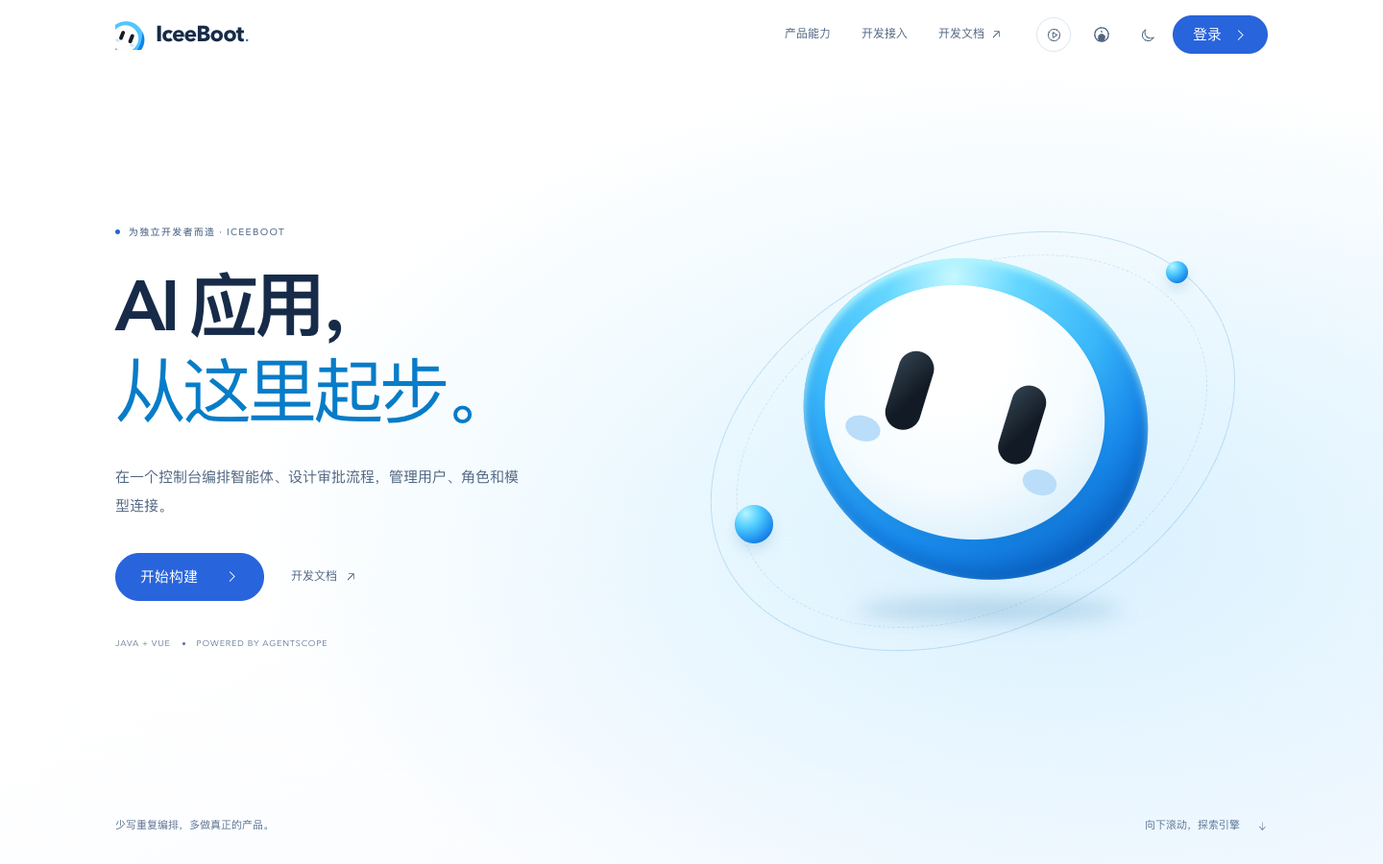
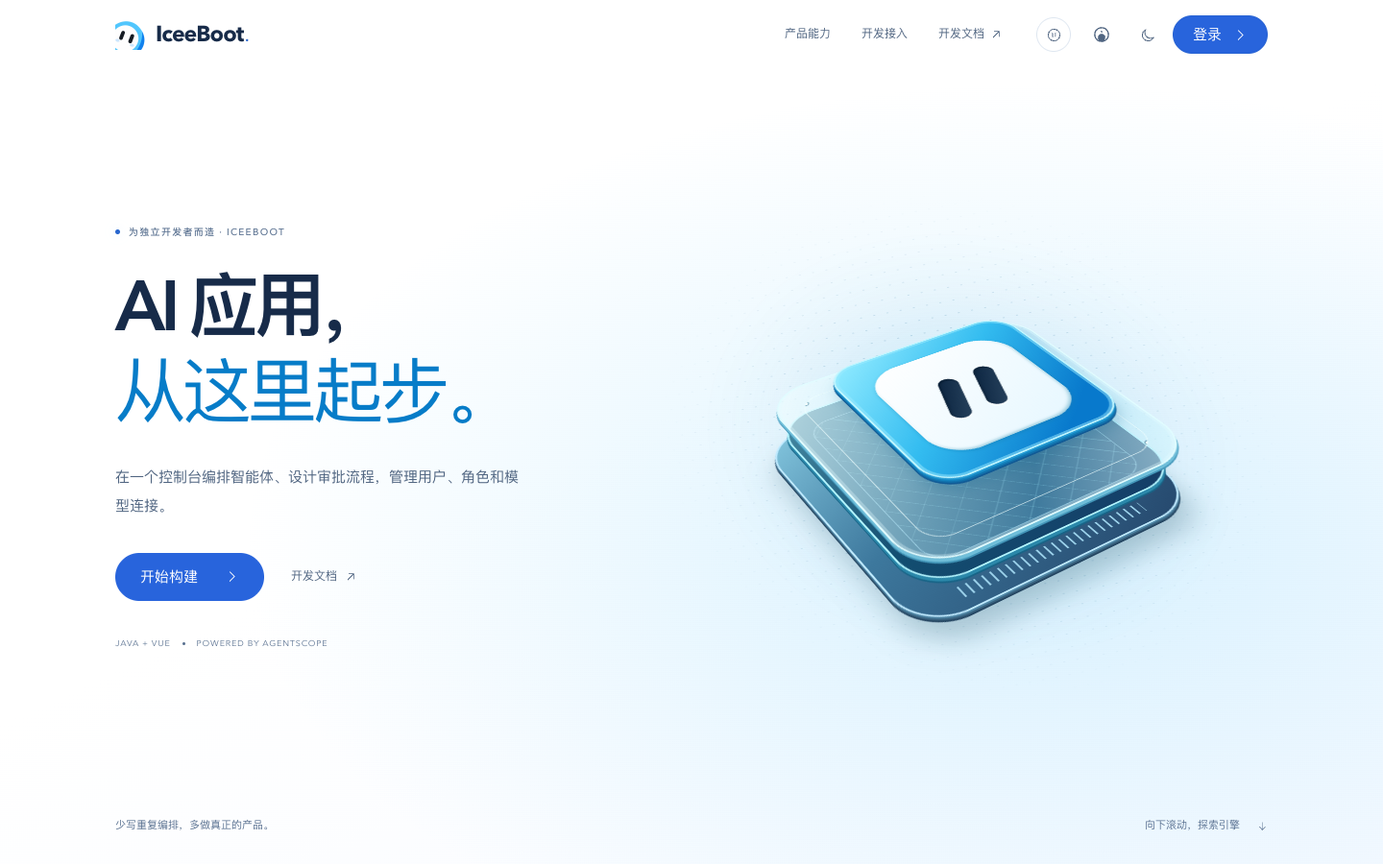
为 IceeBoot 首页主视觉增加组装动画与可逆章节过渡

Changed region(s): [[0.5312, 0.28, 0.875, 0.7467], [0.8438, 0.28, 0.875, 0.3422]]

diff --git a/src/pages/home/HomePage.vue b/src/pages/home/HomePage.vue
@@ -1,5 +1,5 @@
 <template>
-  <div ref="pageRoot" class="launch-site" :class="{ 'is-dark': isDark, 'can-reveal': canReveal && !prefersReducedMotion, 'reduce-motion': prefersReducedMotion }">
+  <div ref="pageRoot" class="launch-site" :class="{ 'is-dark': isDark, 'scroll-motion': !motionStopped, 'reduce-motion': prefersReducedMotion }">
     <a class="skip-link" href="#capabilities">{{ t('home.skipContent') }}</a>
     <header class="launch-header">
       <div class="launch-width header-inner">
@@ -21,17 +21,17 @@
               <div class="hero-spec"><span>JAVA + VUE</span><i></i><span>POWERED BY AGENTSCOPE</span></div>
             </div>
             <div class="hero-art">
-              <BrandMascot :paused="motionStopped || showLoginDialog" />
+              <HeroAssembly />
             </div>
           </div>
           <div class="hero-bottom launch-width"><span>{{ t('home.visualCaption') }}</span><a href="#capabilities">{{ t('home.scrollExplore') }}<el-icon aria-hidden="true"><Bottom /></el-icon></a></div>
         </div>
       </section>
 
-      <section id="capabilities" class="manifesto launch-width">
-        <p class="eyebrow" data-reveal>LESS PLUMBING. MORE BUILDING.</p>
-        <h2 data-reveal>{{ t('home.platformTitle') }}<span>{{ t('home.platformHighlight') }}</span></h2>
-        <p data-reveal>{{ t('home.platformDescription') }}</p>
+      <section id="capabilities" class="manifesto launch-width" data-scene="capabilities">
+        <p class="eyebrow" data-story-copy>LESS PLUMBING. MORE BUILDING.</p>
+        <h2 data-story-copy>{{ t('home.platformTitle') }}<span>{{ t('home.platformHighlight') }}</span></h2>
+        <p data-story-copy>{{ t('home.platformDescription') }}</p>
         <nav class="chapter-navigation" :aria-label="t('home.navCapabilities')"><a v-for="(feature, index) in features" :key="feature.kind" :href="`#${feature.kind}`"><span>0{{ index + 1 }}</span>{{ t(`home.section_${feature.kind}`) }}<el-icon aria-hidden="true"><Bottom /></el-icon></a></nav>
       </section>
 
@@ -42,7 +42,7 @@
             <div class="feature-art">
               <div class="scene-halo" aria-hidden="true"></div>
               <span class="scene-watermark" aria-hidden="true">{{ feature.mark }}</span>
-              <AgentCoreScene :kind="feature.kind" :label="t(`home.scene_${feature.kind}`)" :progress="sceneProgress[feature.kind] || 0" :reduced-motion="motionStopped" :dark="isDark" :selection="feature.kind === 'models' ? providers.findIndex(provider => provider.name === selectedProvider.name) : capabilityMask" />
+              <AgentCoreScene :kind="feature.kind" :label="t(`home.scene_${feature.kind}`)" :progress="motionStopped ? .45 : sceneProgress[feature.kind] || 0" :reduced-motion="motionStopped" :dark="isDark" :selection="feature.kind === 'models' ? providers.findIndex(provider => provider.name === selectedProvider.name) : capabilityMask" />
               <div class="scene-caption"><span class="status-dot"></span><span>{{ t(`home.scene_caption_${feature.kind}`) }}</span><span class="scene-coordinate" aria-hidden="true">[ {{ String(Math.round((sceneProgress[feature.kind] || 0) * 100)).padStart(3, '0') }} ]</span></div>
             </div>
             <div class="feature-copy">
@@ -73,19 +73,19 @@
 
       <section id="integration" class="integration-section" data-scene="integration">
         <div class="launch-width">
-          <div class="integration-intro" data-reveal><p class="eyebrow">04 → YOUR APPLICATION</p><h2>{{ t('home.integrationTitle') }}<span>{{ t('home.integrationHighlight') }}</span></h2><p>{{ t('home.integrationDescription') }}</p></div>
+          <div class="integration-intro" data-story-copy><p class="eyebrow">04 → YOUR APPLICATION</p><h2>{{ t('home.integrationTitle') }}<span>{{ t('home.integrationHighlight') }}</span></h2><p>{{ t('home.integrationDescription') }}</p></div>
           <div class="integration-layout">
-            <div class="governance-list"><article v-for="(item, index) in governance" :key="item.key" data-reveal><span class="governance-number">0{{ index + 1 }}</span><div><h3><el-icon aria-hidden="true"><component :is="item.icon" /></el-icon>{{ t(`home.governance_${item.key}`) }}</h3><p>{{ t(`home.governance_${item.key}_description`) }}</p></div></article><a :href="docsUrl" target="_blank" rel="noopener noreferrer" class="text-link">{{ t('home.integrationDocs') }}<el-icon aria-hidden="true"><TopRight /></el-icon></a></div>
+            <div class="governance-list"><article v-for="(item, index) in governance" :key="item.key" data-story-copy><span class="governance-number">0{{ index + 1 }}</span><div><h3><el-icon aria-hidden="true"><component :is="item.icon" /></el-icon>{{ t(`home.governance_${item.key}`) }}</h3><p>{{ t(`home.governance_${item.key}_description`) }}</p></div></article><a :href="docsUrl" target="_blank" rel="noopener noreferrer" class="text-link">{{ t('home.integrationDocs') }}<el-icon aria-hidden="true"><TopRight /></el-icon></a></div>
             <div class="code-perspective" :style="{ '--code-tilt': `${motionStopped ? 0 : (1 - (sceneProgress.integration || 0)) * 9}deg` }"><div class="code-depth" aria-hidden="true"></div><div class="code-window"><div class="code-toolbar"><div class="window-dots" aria-hidden="true"><i></i><i></i><i></i></div><div class="code-switch"><button v-for="mode in exampleModes" :key="mode" :aria-pressed="exampleMode === mode" :class="{ active: exampleMode === mode }" @click="exampleMode = mode">{{ mode === 'typescript' ? 'TypeScript' : 'HTTP' }}</button></div><button class="copy-button" :aria-label="t('home.copyCode')" @click="copyCode"><el-icon aria-hidden="true"><CopyDocument /></el-icon>{{ t('home.copy') }}</button></div><div class="code-content" tabindex="0" :aria-label="t('home.codeExample')"><pre><code><span v-for="(line, index) in exampleCode.split('\n')" :key="index" class="code-line"><span class="line-number" aria-hidden="true">{{ String(index + 1).padStart(2, '0') }}</span><span :class="{ 'code-comment': line.startsWith('//') }">{{ line || ' ' }}</span></span></code></pre></div><div class="code-footnote"><el-icon aria-hidden="true"><Lock /></el-icon>{{ t('home.previewPermission') }}<span>{{ t('home.codeExample') }}</span></div></div></div>
           </div>
         </div>
       </section>
-      <section id="getting-started" class="getting-started launch-width">
-        <div class="section-intro" data-reveal><p class="eyebrow">YOUR FIRST BUILD</p><h2>{{ t('home.startTitle') }}</h2><p>{{ t('home.startDescription') }}</p></div>
-        <ol class="steps"><li v-for="step in steps" :key="step" data-reveal><span class="step-number">0{{ step }}</span><h3>{{ t(`home.step${step}`) }}</h3><p>{{ t(`home.step${step}Desc`) }}</p></li></ol>
+      <section id="getting-started" class="getting-started launch-width" data-scene="steps">
+        <div class="section-intro" data-story-copy><p class="eyebrow">YOUR FIRST BUILD</p><h2>{{ t('home.startTitle') }}</h2><p>{{ t('home.startDescription') }}</p></div>
+        <ol class="steps"><li v-for="step in steps" :key="step" data-story-copy><span class="step-number">0{{ step }}</span><h3>{{ t(`home.step${step}`) }}</h3><p>{{ t(`home.step${step}Desc`) }}</p></li></ol>
         <div class="stack-strip" :aria-label="t('home.techTitle')"><span>{{ t('home.techTitle') }}</span><strong v-for="tech in techStack" :key="tech">{{ tech }}</strong></div>
       </section>
-      <section class="finale-section" data-scene="finale"><div class="finale-art"><AgentCoreScene kind="hero" :label="t('home.scene_hero')" :progress="sceneProgress.finale || 0" :reduced-motion="motionStopped" :dark="isDark" /></div><div class="launch-width finale-content"><p class="eyebrow">MAKE IT YOURS.</p><h2>{{ t('home.calloutTitle') }}<span>{{ t('home.calloutHighlight') }}</span></h2><p>{{ t('home.calloutDescription') }}</p><button class="launch-button primary" @click="handleExperience">{{ t(isLoggedIn ? 'home.console' : 'home.experience') }}<el-icon aria-hidden="true"><ArrowRight /></el-icon></button></div></section>
+      <section class="finale-section" data-scene="finale"><div class="finale-art"><AgentCoreScene kind="hero" :label="t('home.scene_hero')" :progress="motionStopped ? .45 : sceneProgress.finale || 0" :reduced-motion="motionStopped" :dark="isDark" /></div><div class="launch-width finale-content"><p class="eyebrow">MAKE IT YOURS.</p><h2>{{ t('home.calloutTitle') }}<span>{{ t('home.calloutHighlight') }}</span></h2><p>{{ t('home.calloutDescription') }}</p><button class="launch-button primary" @click="handleExperience">{{ t(isLoggedIn ? 'home.console' : 'home.experience') }}<el-icon aria-hidden="true"><ArrowRight /></el-icon></button></div></section>
     </main>
 
     <footer class="launch-footer"><div class="launch-width"><div class="footer-main"><a class="brand" href="#"><img class="brand-symbol" src="@/assets/logo.png" alt="" width="32" height="32">IceeBoot.</a><p>{{ t('home.footerDescription') }}</p><div class="footer-links"><a :href="sourceUrl" target="_blank" rel="noopener noreferrer">Gitee<el-icon aria-hidden="true"><TopRight /></el-icon></a><a :href="docsUrl" target="_blank" rel="noopener noreferrer">{{ t('home.docs') }}</a><button @click="showContactDialog = true">{{ t('home.contactUs') }}</button><button v-if="isLoggedIn" @click="handleLogout">{{ t('home.logoutBtn') }}</button></div></div><div class="footer-bottom"><span>© {{ currentYear }} IceeBoot</span><a href="https://beian.miit.gov.cn/" target="_blank" rel="noopener noreferrer">京ICP备2024086986号-2</a></div></div></footer>
@@ -102,7 +102,7 @@ import { ElMessage, ElMessageBox } from 'element-plus'
 import { useI18n } from 'vue-i18n'
 import { Moon, Sunny, ArrowRight, TopRight, Cpu, Check, Connection, Lock, CopyDocument, Upload, Message, Key, ChatDotRound, Box, Tickets, Finished, Plus, Bottom, VideoPlay, VideoPause } from '@element-plus/icons-vue'
 import { isDark, toggleTheme } from '@/utils/theme'
-import BrandMascot from '@/components/common/BrandMascot.vue'
+import HeroAssembly from './components/HeroAssembly.vue'
 import LoginDialog from '@/components/common/LoginDialog.vue'
 import LanguageSwitcher from '@/components/common/LanguageSwitcher.vue'
 import { useUserStore } from '@/stores/user'
@@ -117,7 +117,7 @@ const route = useRoute()
 const userStore = useUserStore()
 const { t } = useI18n()
 const pageRoot = ref<HTMLElement>()
-const { sceneProgress, prefersReducedMotion, canReveal } = useScrollStory(pageRoot)
+const { sceneProgress, prefersReducedMotion } = useScrollStory(pageRoot)
 const ambientPaused = ref(false)
 const motionStopped = computed(() => prefersReducedMotion.value || ambientPaused.value)
 const isLoggedIn = computed(() => !!userStore.getToken())
@@ -347,7 +347,7 @@ onBeforeUnmount(() => { if (mockTimer) clearTimeout(mockTimer) })
 .text-link { display: inline-flex; align-items: center; gap: 8px; min-height: 44px; font-size: 12px; color: var(--secondary) !important; &:hover { color: var(--text) !important; } }
 .hero-spec { display: flex; align-items: center; gap: 12px; margin-top: 37px; color: var(--subtle); font-size: 9px; letter-spacing: .09em; i { width: 3px; height: 3px; background: var(--subtle); border-radius: 50%; } }
 .hero-art { display: grid; place-items: center; position: relative; height: min(650px, 75svh); margin: 0; }
-.hero-art .brand-scene { width: min(100%, 64svh); }
+
 .hero-bottom { display: flex; align-items: center; justify-content: space-between; height: 60px; color: var(--subtle); font-size: 11px; a { display: inline-flex; gap: 18px; align-items: center; min-height: 44px; } }
 .manifesto { padding-block: 120px 100px; text-align: center; .eyebrow { justify-content: center; } h2 { font-size: clamp(36px, 4.2vw, 60px); letter-spacing: -.055em; line-height: 1.4; font-weight: 500; margin-top: 25px; span { display: block; color: var(--highlight); } } > p:not(.eyebrow) { color: var(--secondary); max-width: 540px; font-size: 15px; line-height: 2; margin: 26px auto 0; } }
 .chapter-navigation { display: flex; justify-content: center; gap: 38px; margin-top: 55px; a { display: flex; align-items: center; gap: 12px; min-height: 48px; font-size: 12px; color: var(--text); span { font-size: 9px; color: var(--subtle); } .el-icon { color: var(--accent-ink); font-size: 11px; } &:hover { color: var(--accent-ink); } } }
@@ -414,12 +414,59 @@ onBeforeUnmount(() => { if (mockTimer) clearTimeout(mockTimer) })
 .finale-content { position: relative; text-align: center; .eyebrow { justify-content: center; } h2 { font-size: clamp(36px, 4.5vw, 62px); font-weight: 500; line-height: 1.4; letter-spacing: -.055em; margin-top: 20px; span { display: block; color: var(--highlight); } } > p:not(.eyebrow) { color: var(--secondary); font-size: 14px; line-height: 1.9; margin-top: 25px; }.launch-button { margin-top: 30px; } }
 .launch-footer { background: var(--site-bg); padding-block: 32px 20px; }.footer-main { display: flex; align-items: center; gap: 24px; > p { font-size: 11px; color: var(--subtle); } }.footer-links { margin-left: auto; display: flex; gap: 22px; a,button { display: inline-flex; align-items: center; gap: 5px; min-height: 44px; border: 0; background: none; color: var(--secondary); font-size: 11px; } }.footer-bottom { display: flex; justify-content: space-between; gap: 16px; margin-top: 24px; padding-top: 20px; color: var(--subtle); font-size: 10px; }
 .contact-grid { display: grid; grid-template-columns: repeat(3,minmax(0,1fr)); gap: 22px 16px; figure { margin: 0; text-align: center; } img { width: 100%; max-width: 144px; height: auto; aspect-ratio: 1; object-fit: contain; } figcaption { margin-top: 8px; font-size: 12px; } }
-.can-reveal [data-reveal] { opacity: 0; transform: translateY(20px); transition: opacity .8s ease, transform .8s cubic-bezier(.2,.7,.3,1); &.is-visible { opacity: 1; transform: none; } }
+/* The blue line passes the motion from the outgoing scene to the next heading. */
+[data-scene] { position: relative; }
+[data-scene]:not(.hero-section)::before {
+  content: '';
+  position: absolute;
+  z-index: 1;
+  top: 0;
+  left: 18%;
+  width: 64%;
+  height: 1px;
+  pointer-events: none;
+  background: linear-gradient(90deg, transparent, var(--hairline) 25%, var(--accent-ink) 52%, var(--hairline) 75%, transparent);
+}
+.scroll-motion [data-scene]:not(.hero-section)::after {
+  content: '';
+  position: absolute;
+  z-index: 2;
+  top: -2px;
+  left: calc(18% + 64% * var(--arrival, 1));
+  width: 18px;
+  height: 4px;
+  border-radius: 50%;
+  pointer-events: none;
+  background: linear-gradient(90deg, transparent, #46bfff);
+  box-shadow: 2px 0 9px #50c8ff88;
+  opacity: min(calc(4 * var(--arrival, 1)), calc(4 * (1 - var(--arrival, 1))));
+}
+.launch-site:not(.scroll-motion) [data-scene] {
+  --departure: 0 !important;
+  --arrival: 1 !important;
+}
+.scroll-motion {
+  [data-scene]::before {
+    transform-origin: left;
+    transform: scaleX(var(--arrival, 1));
+    opacity: calc(.25 + .65 * var(--arrival, 1));
+  }
+  .hero-copy { transform: translateY(calc(-32px * var(--departure, 0))); }
+  .hero-art { transform: translateY(calc(42px * var(--departure, 0))); }
+  .feature-art {
+    transform: translateY(calc((1 - var(--arrival, 1)) * 56px - var(--departure, 0) * 32px))
+      scale(calc(.94 + var(--arrival, 1) * .06));
+  }
+  .feature-copy, [data-story-copy], .finale-content {
+    transform: translateY(calc((1 - var(--arrival, 1)) * 38px - var(--departure, 0) * 20px));
+    opacity: calc(.64 + var(--arrival, 1) * .36 - var(--departure, 0) * .20);
+  }
+}
 @media (min-width: 1700px) { .launch-width { width: min(1280px, 80%); } .hero-copy h1 { font-size: 90px; }.feature-copy h2 { font-size: 54px; }.hero-description, .feature-description { font-size: 16px; max-width: 500px; }.hero-art { height: 750px; }.feature-art { height: 650px; } }
 @media (max-width: 1100px) { .header-inner { gap: 20px; }.header-inner nav { gap: 18px; }.hero-copy h1 { font-size: 56px; }.feature-grid { gap: 35px; }.feature-copy h2 { font-size: 36px; }.integration-layout { gap: 45px; } }
 @media (max-width: 760px) {
   .launch-width { width: calc(100% - 48px); }.header-inner { width: calc(100% - 32px); min-height: 64px; gap: 8px; }.header-inner nav { display: none; }.header-actions { margin-left: auto; gap: 0; }.brand { font-size: 20px; gap: 4px; }.brand-dot { margin-left: -3px; }.nav-cta { min-height: 36px; padding-inline: 13px; }.motion-button { margin: 0; width: 32px; height: 32px; }.utility-button { width: 36px; }.header-actions :deep(.lang-btn) { width: 36px; }
-  .hero-section { min-height: 0; height: auto; }.hero-sticky { position: relative; top: 0; height: auto; min-height: 0; }.hero-grid { display: flex; flex-direction: column; align-items: stretch; }.hero-copy { padding-top: 55px; }.hero-copy h1 { font-size: clamp(42px, 8vw, 62px); margin-top: 20px; }.hero-description { max-width: 520px; font-size: 13px; line-height: 1.9; margin-top: 20px !important; }.hero-actions { margin-top: 25px; gap: 25px; }.hero-spec { margin-top: 27px; font-size: 8px; }.hero-art { height: 390px; margin: -5px 0 -10px; }.hero-art .brand-scene { width: min(100%, 370px); }.hero-bottom { font-size: 9px; height: 64px; gap: 14px; > span { max-width: 145px; line-height: 1.8; } a { gap: 6px; } }
+  .hero-section { min-height: 0; height: auto; }.hero-sticky { position: relative; top: 0; height: auto; min-height: 0; }.hero-grid { display: flex; flex-direction: column; align-items: stretch; }.hero-copy { padding-top: 55px; }.hero-copy h1 { font-size: clamp(42px, 8vw, 62px); margin-top: 20px; }.hero-description { max-width: 520px; font-size: 13px; line-height: 1.9; margin-top: 20px !important; }.hero-actions { margin-top: 25px; gap: 25px; }.hero-spec { margin-top: 27px; font-size: 8px; }.hero-art { height: 390px; margin: -5px 0 -10px; }.hero-bottom { font-size: 9px; height: 64px; gap: 14px; > span { max-width: 145px; line-height: 1.8; } a { gap: 6px; } }
   .manifesto { padding-block: 75px; text-align: left; .eyebrow { justify-content: flex-start; } h2 { font-size: 34px; } > p:not(.eyebrow) { font-size: 13px; margin-top: 22px; } }.chapter-navigation { display: grid; grid-template-columns: 1fr 1fr; gap: 10px 24px; margin-top: 30px; a { justify-content: space-between; font-size: 11px; } }
   .feature-scene { height: auto; min-height: 0; scroll-margin-top: 64px; }.feature-sticky { position: relative; top: 0; height: auto; min-height: 0; }.feature-heading { padding-top: 28px; font-size: 8px; gap: 18px; }.feature-heading > span:last-child { display: none; }.feature-grid { display: flex; flex-direction: column; gap: 0; align-items: stretch; }.feature-art { order: 2; height: 410px; margin: -20px 0 30px; }.feature-copy { padding-block: 40px; h2 { font-size: 34px; margin-top: 13px; max-width: 560px; } }.feature-copy h2 > span { display: block; }.feature-description { font-size: 13px; margin-top: 18px !important; max-width: 560px; }.scene-watermark { font-size: 70px; top: 4%; }.scene-caption { font-size: 9px; inset-inline: 10%; }.service-list { margin-top: 23px; gap: 0 24px; }.capability-control,.model-control,.sandbox-control { margin-top: 24px; }.capability-buttons button { flex: 1; justify-content: center; padding-inline: 10px; }.provider-list { gap: 8px; button { padding-inline: 7px; gap: 3px; font-size: 11px; } .provider-check { width: 10px; font-size: 10px; } }.feature-foundation .feature-art { height: 380px; }.feature-models .feature-art { height: 430px; }.terminal-line { font-size: 11px; gap: 16px; }
   .integration-section { padding-block: 70px 85px; }.integration-intro h2 { font-size: 33px; }.integration-intro > p:last-child { font-size: 13px; }.integration-layout { grid-template-columns: 1fr; gap: 35px; margin-top: 35px; }.governance-list article { padding-block: 18px; }.code-content { padding-inline: 14px; code { font-size: 10px; } }.code-toolbar { padding-inline: 14px; gap: 10px; }.code-footnote > span { display: none; }.code-depth { right: -5px; }.code-window { transform: none; }.code-depth { transform: none; }
@@ -428,5 +475,5 @@ onBeforeUnmount(() => { if (mockTimer) clearTimeout(mockTimer) })
 @media (max-width: 360px) { .provider-list { grid-template-columns: repeat(2, minmax(0, 1fr)); } }
 @media (max-height: 760px) and (min-width: 761px) { .hero-sticky, .feature-sticky { min-height: 570px; }.feature-art { height: 480px; }.feature-copy { padding-block: 25px; }.feature-copy h2 { font-size: 35px; }.feature-description { font-size: 13px; margin-top: 17px !important; }.feature-heading { padding-top: 20px; }.service-list { margin-top: 20px; }.service-list > div { padding-block: 11px; }.hero-copy h1 { font-size: 58px; }.hero-art { height: 490px; } }
 .reduce-motion { .hero-section,.feature-scene { height: auto; min-height: 0; }.hero-sticky,.feature-sticky { position: relative; top: 0; height: auto; }.hero-grid { min-height: 650px; }.feature-grid { min-height: 650px; }.code-window,.code-depth { transform: none; } }
-@media (prefers-reduced-motion: reduce) { .launch-site *, .launch-site *::before, .launch-site *::after { transition: none !important; animation: none !important; scroll-behavior: auto !important; }.can-reveal [data-reveal] { opacity: 1; transform: none; } }
+@media (prefers-reduced-motion: reduce) { .launch-site *, .launch-site *::before, .launch-site *::after { transition: none !important; animation: none !important; scroll-behavior: auto !important; } }
 </style>

diff --git a/src/pages/home/components/HeroAssembly.vue b/src/pages/home/components/HeroAssembly.vue
@@ -1,0 +1,97 @@
+<template>
+  <div class="assembly" aria-hidden="true">
+    <div class="assembly-floor"></div>
+    <div class="assembly-stack">
+      <div class="plate carrier"><div class="contacts"></div></div>
+      <div class="plate circuit"><div class="traces"></div></div>
+      <div class="plate glass"><div class="etching"></div></div>
+      <div class="processor">
+        <div class="enamel"><i></i><i></i></div>
+      </div>
+    </div>
+  </div>
+</template>
+
+<style scoped>
+.assembly {
+  position: relative;
+  width: min(100%, 580px, 67svh);
+  aspect-ratio: 1;
+  display: grid;
+  place-items: center;
+  isolation: isolate;
+  pointer-events: none;
+}
+.assembly-floor {
+  position: absolute;
+  inset: 5% -5% 0;
+  background:
+    radial-gradient(ellipse at center, #238ac332, transparent 62%),
+    radial-gradient(#4583a954 .8px, transparent 1px) center / 14px 14px;
+  mask-image: radial-gradient(ellipse, black 24%, transparent 70%);
+  transform: rotate(-11deg) skewX(12deg);
+}
+.assembly-stack {
+  position: relative;
+  width: 57%;
+  aspect-ratio: 1;
+  transform-style: preserve-3d;
+  transform: translateY(12%) perspective(1100px) rotateX(calc(52deg - var(--departure, 0) * 10deg)) rotateZ(calc(-34deg + var(--departure, 0) * 17deg));
+}
+.plate, .processor { position: absolute; border-radius: 16%; }
+.plate { inset: 0; }
+.carrier {
+  background: linear-gradient(150deg, #84c7df, #3d789d 45%, #25476c);
+  border: 2px solid #bfeaff;
+  box-shadow: -1px 2px #5087a6, -2px 4px #38627f, -3px 6px #254662, -8px 28px 30px #1e506244;
+}
+.contacts {
+  position: absolute; inset: 4%; border-radius: 14%;
+  background: repeating-linear-gradient(90deg,#a4cfde 0 2px,transparent 2px 9px) top / 72% 5% no-repeat,
+    repeating-linear-gradient(90deg,#9bd1ea 0 2px,transparent 2px 9px) bottom / 72% 5% no-repeat;
+}
+.circuit {
+  inset: 4%; transform: translateZ(calc(31px + var(--departure, 0) * 22px));
+  background: linear-gradient(140deg,#478ca4,#124d70 47%,#153d67);
+  border: 2px solid #b3f5ff;
+  box-shadow: -2px 4px #2b88aa, -3px 6px #186487;
+}
+.traces,.etching { position: absolute; inset: 8%; border-radius: 10%; }
+.traces {
+  background: repeating-linear-gradient(45deg, transparent 0 10px,#87d9e950 10px 11px,transparent 11px 17px),
+    repeating-linear-gradient(-45deg,transparent 0 33px,#a2e8f633 33px 34px);
+  border: 1px solid #afeaff80;
+}
+.glass {
+  inset: 2%; transform: translateZ(calc(62px + var(--departure, 0) * 46px));
+  background: linear-gradient(125deg,#f4feffa8,#caf3ff80 37%,#87ceeb63 64%,#d9f9ffab);
+  border: 2px solid #e1fcff;
+  box-shadow: inset 0 0 0 3px #e4fbff55, -2px 4px #6fbed9, -3px 6px #4396b9;
+}
+.etching { border: 1px solid #efffffa6; background: radial-gradient(circle,#f4ffff 0 3px, #6398af 3.5px,transparent 5px) top left / 12px 12px no-repeat, radial-gradient(circle,#f4ffff 0 3px,#6398af 3.5px,transparent 5px) bottom right / 12px 12px no-repeat; }
+.processor {
+  inset: 17%; display: grid; place-items: center;
+  transform: translateZ(calc(100px + var(--departure, 0) * 84px));
+  border: 2px solid #c0f6ff;
+  background: linear-gradient(140deg,#8ce9ff 4%,#33bcf0 44%,#0879cc 85%);
+  box-shadow: inset 0 0 0 3px #9cebff7d,-1px 2px #279dd5,-2px 4px #1383be,-3px 6px #116faa,-4px 8px #115a95, -6px 17px 14px #16678f36;
+}
+.enamel {
+  width: 75%; height: 75%; border-radius: 25%;
+  display: flex; justify-content: center; align-items: center; gap: 13%;
+  background: linear-gradient(145deg,#fff,#e6f7ff);
+  box-shadow: inset 1px 2px 3px white, inset -1px -2px 4px #92c7da, 0 2px 5px #1475a45c;
+}
+.enamel i {
+  width: 13%; height: 43%; border-radius: 30px; transform: rotate(19deg);
+  background: linear-gradient(100deg,#0b2440,#26415c);
+  box-shadow: inset 1px 2px 3px #081d32, 0 2px 1px white;
+}
+@media (max-width: 760px) {
+  .assembly { width: min(100%, 365px); }
+  .assembly-stack { transform: translateY(18%) rotateX(50deg) rotateZ(calc(-32deg + var(--departure, 0) * 9deg)); }
+  .processor { transform: translateZ(calc(59px + var(--departure, 0) * 18px)); }
+  .glass { transform: translateZ(calc(37px + var(--departure, 0) * 11px)); }
+  .circuit { transform: translateZ(calc(17px + var(--departure, 0) * 6px)); }
+}
+</style>

diff --git a/src/pages/home/composables/useScrollStory.ts b/src/pages/home/composables/useScrollStory.ts
@@ -1,44 +1,49 @@
 import { onBeforeUnmount, onMounted, ref, type Ref } from 'vue'
 
-/** 各章节独立跟随原生滚动；同一帧统一读布局，不劫持滚轮。 */
+const clamp = (value: number) => Math.max(0, Math.min(1, value))
+
+/** Read all section bounds together. The same scroll position produces the same pose in either direction. */
 export function useScrollStory(root: Ref<HTMLElement | undefined>) {
   const sceneProgress = ref<Record<string, number>>({})
   const prefersReducedMotion = ref(false)
-  const canReveal = ref(false)
   let frame = 0
-  let observer: IntersectionObserver | undefined
   let media: MediaQueryList | undefined
   let scenes: HTMLElement[] = []
+
   function measure() {
     frame = 0
-    const height = window.innerHeight
+    const height = Math.max(window.innerHeight, 1)
+    const bounds = scenes.map(scene => scene.getBoundingClientRect())
     const next: Record<string, number> = {}
-    for (const scene of scenes) {
-      const rect = scene.getBoundingClientRect()
-      next[scene.dataset.scene!] = prefersReducedMotion.value ? .45 : Math.min(1, Math.max(0, (height * .65 - rect.top) / (rect.height + height * .1)))
-    }
+    scenes.forEach((scene, index) => {
+      const rect = bounds[index]!
+      const name = scene.dataset.scene!
+      next[name] = prefersReducedMotion.value ? .45 : clamp((height * .65 - rect.top) / (rect.height + height * .1))
+      const arrival = clamp((height - rect.top) / (height * .62))
+      const departure = name === 'hero'
+        ? clamp((window.scrollY - 1) / (height * .85))
+        : clamp((height * .65 - rect.bottom) / (height * .65))
+      scene.style.setProperty('--arrival', arrival.toFixed(4))
+      scene.style.setProperty('--departure', departure.toFixed(4))
+    })
     sceneProgress.value = next
   }
   function schedule() { if (!frame) frame = requestAnimationFrame(measure) }
   function updateMotion() { prefersReducedMotion.value = media?.matches ?? false; schedule() }
+
   onMounted(() => {
     scenes = Array.from(root.value?.querySelectorAll<HTMLElement>('[data-scene]') || [])
-    media = window.matchMedia('(prefers-reduced-motion: reduce)'); updateMotion()
+    media = window.matchMedia('(prefers-reduced-motion: reduce)')
+    updateMotion()
     media.addEventListener('change', updateMotion)
-    window.addEventListener('scroll', schedule, { passive: true }); window.addEventListener('resize', schedule, { passive: true })
-    if ('IntersectionObserver' in window) {
-      observer = new IntersectionObserver(entries => {
-        for (const entry of entries) if (entry.isIntersecting) { entry.target.classList.add('is-visible'); observer?.unobserve(entry.target) }
-      }, { threshold: .08 })
-      root.value?.querySelectorAll('[data-reveal]').forEach(element => observer?.observe(element))
-      canReveal.value = true
-    }
-    measure()
+    window.addEventListener('scroll', schedule, { passive: true })
+    window.addEventListener('resize', schedule)
   })
   onBeforeUnmount(() => {
-    if (frame) cancelAnimationFrame(frame)
-    observer?.disconnect(); media?.removeEventListener('change', updateMotion)
-    window.removeEventListener('scroll', schedule); window.removeEventListener('resize', schedule)
+    cancelAnimationFrame(frame)
+    media?.removeEventListener('change', updateMotion)
+    window.removeEventListener('scroll', schedule)
+    window.removeEventListener('resize', schedule)
   })
-  return { sceneProgress, prefersReducedMotion, canReveal }
+  return { sceneProgress, prefersReducedMotion }
 }

diff --git a/README.md b/README.md
@@ -2,7 +2,9 @@
 
 IceeBoot 是一个用 Vue 3 和 TypeScript 编写的 AI 应用管理台。访客从首页了解产品并登录，业务用户在工作台发起和办理审批，管理员配置角色、智能体、模型连接和基础服务。界面支持中文、英文与明暗主题。
 
-![IceeBoot 首页，左侧为控制台和文档入口，右侧为品牌形象](docs/screenshots/home.png)
+![IceeBoot 首页，左侧为控制台和文档入口，右侧为冰蓝色分层芯片](docs/screenshots/home.png)
+
+[观看首页上下滚动的动效预览](docs/screenshots/home-scroll.webp)
 
 ## 先跑起来
 
